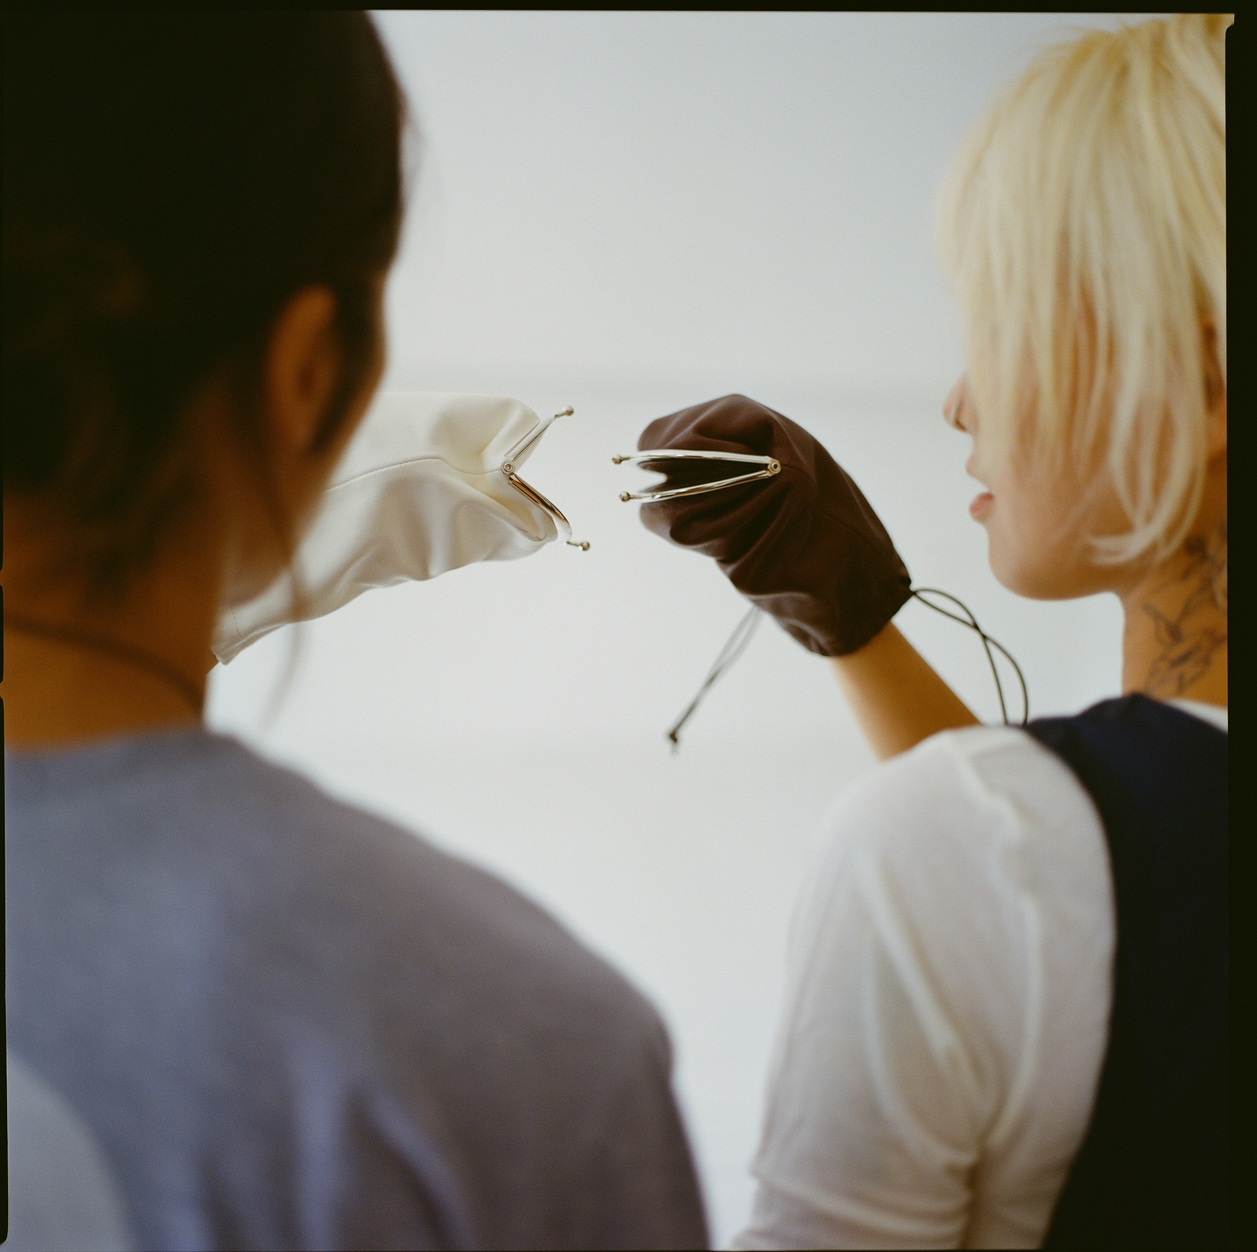
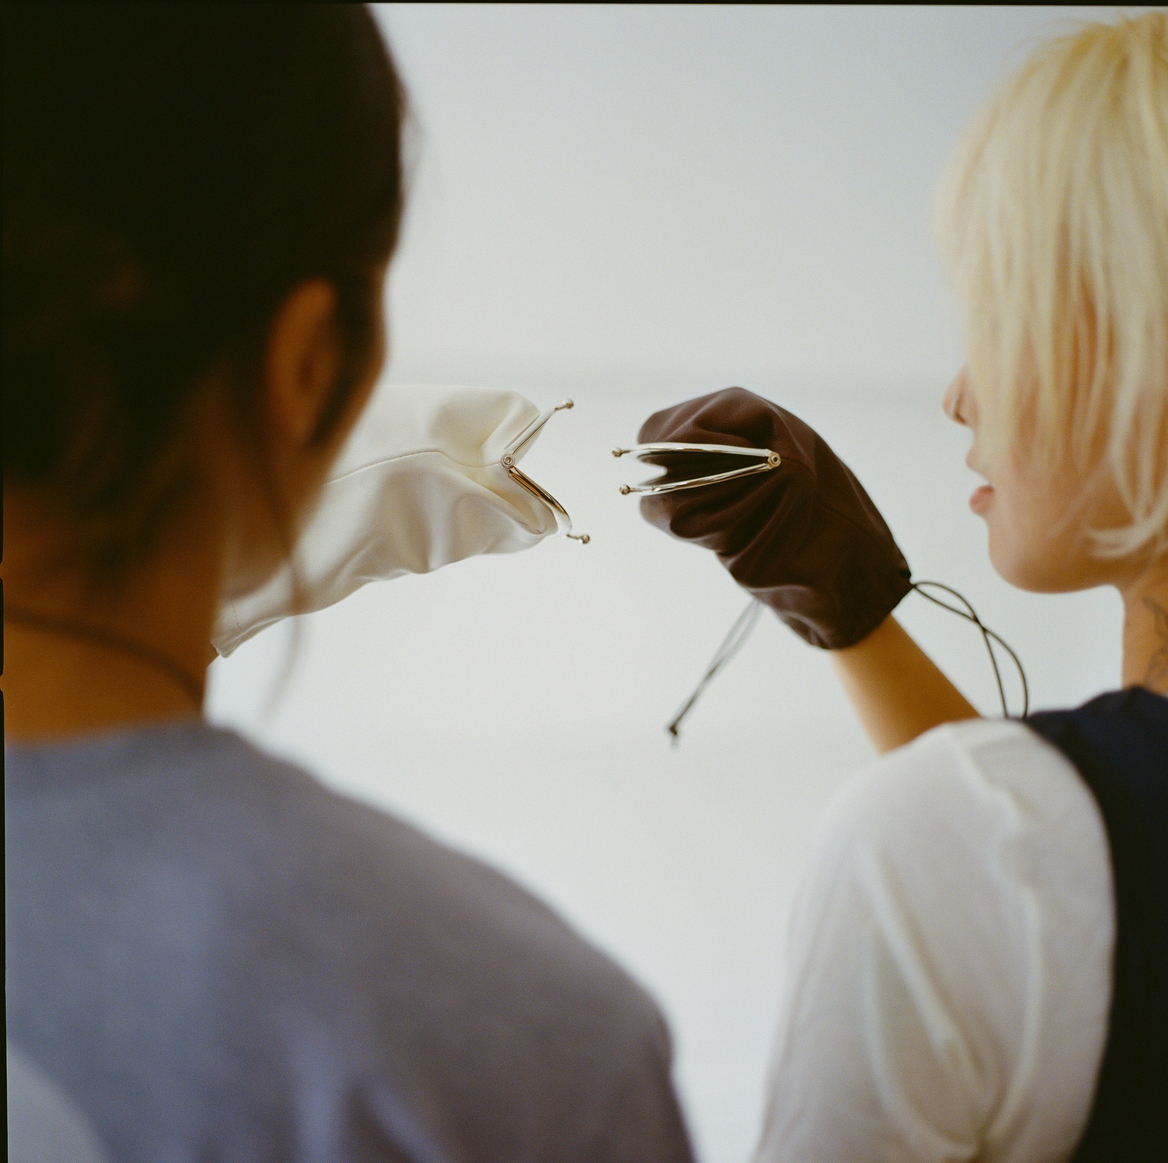
d

diff --git a/project.html b/project.html
@@ -70,6 +70,8 @@
     puppet: [
       "images/21.jpg",
       "images/fair01.jpg",
+      "images/09.jpg",
+
     ],
     can: [
       "images/250316_jaehee_Low_19.jpg",
